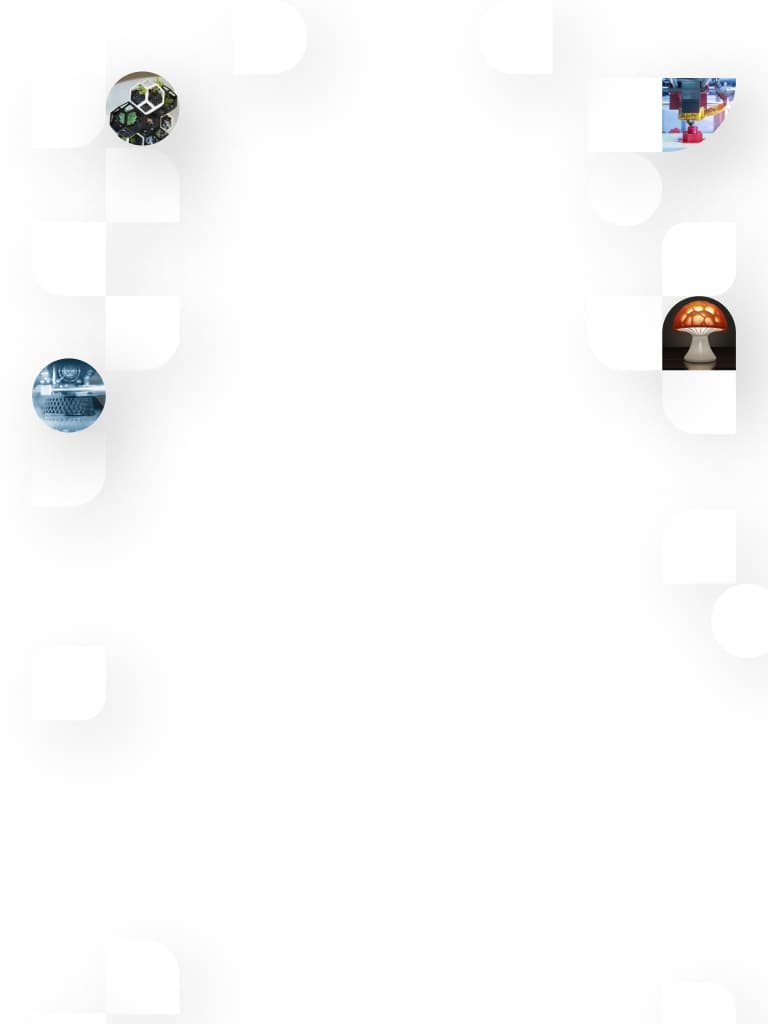
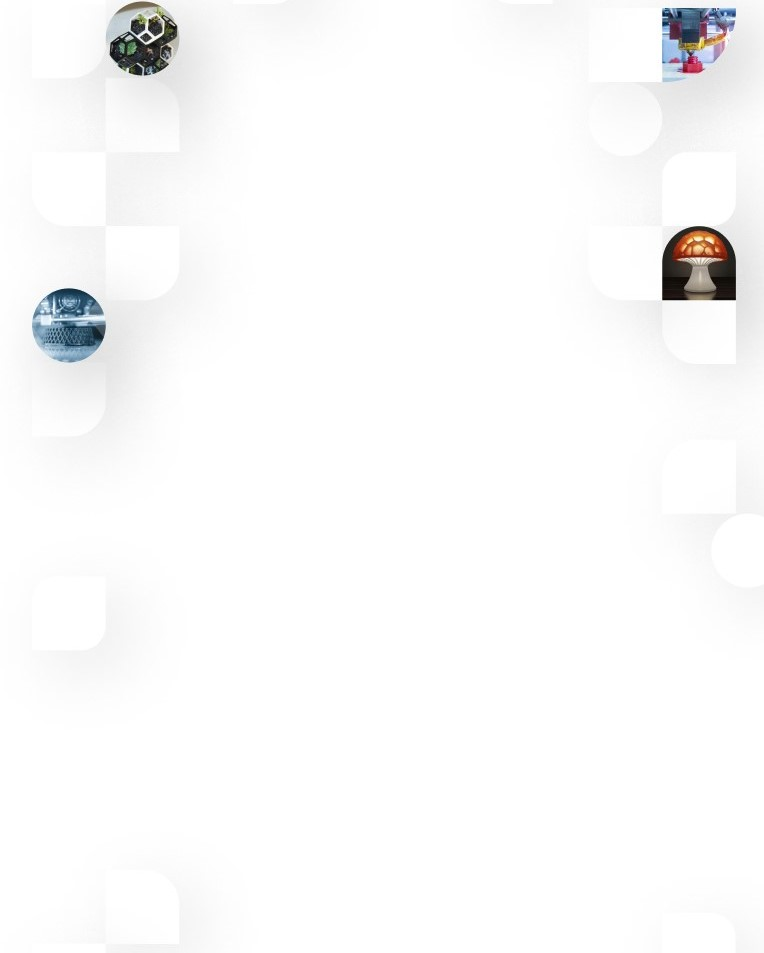
new anchor and previosly background

diff --git a/src/sass/layout/main/_hero.scss b/src/sass/layout/main/_hero.scss
@@ -1,3 +1,20 @@
+.container {
+  position: relative;
+}
+.anchor {
+  display: none;
+  position: absolute;
+  @include tablet {
+    display: block;
+    top: 205px;
+    left: 135px;
+  }
+  @include desktop {
+    display: block;
+    top: 505px;
+    left: 235px;
+  }
+}
 .main-hero__title {
   @include font(18, 21, 400, null);
   font-style: normal;
@@ -60,13 +77,4 @@
   @include desktop {
     @include font(36, 42, 400, null);
   }
-}
-
-.container {
-  position: relative;
-}
-.anchor {
-  position: absolute;
-  top: 325px;
-  left: 195px;
 }

diff --git a/src/partials/hero.html b/src/partials/hero.html
@@ -96,10 +96,10 @@
       </li>
     </ul>
     <p class="main-hero__text">Ми втілюємо ідеї в реальність</p>
+    <a href="#more">
+      <svg class="anchor" width="16" height="16">
+        <use href="./images/icon.svg#icon-anchor"></use>
+      </svg>
+    </a>
   </div>
 </section>
-<a href="#more">
-  <svg class="anchor" width="16" height="16">
-    <use href="./images/icon.svg#icon-anchor"></use>
-  </svg>
-</a>
